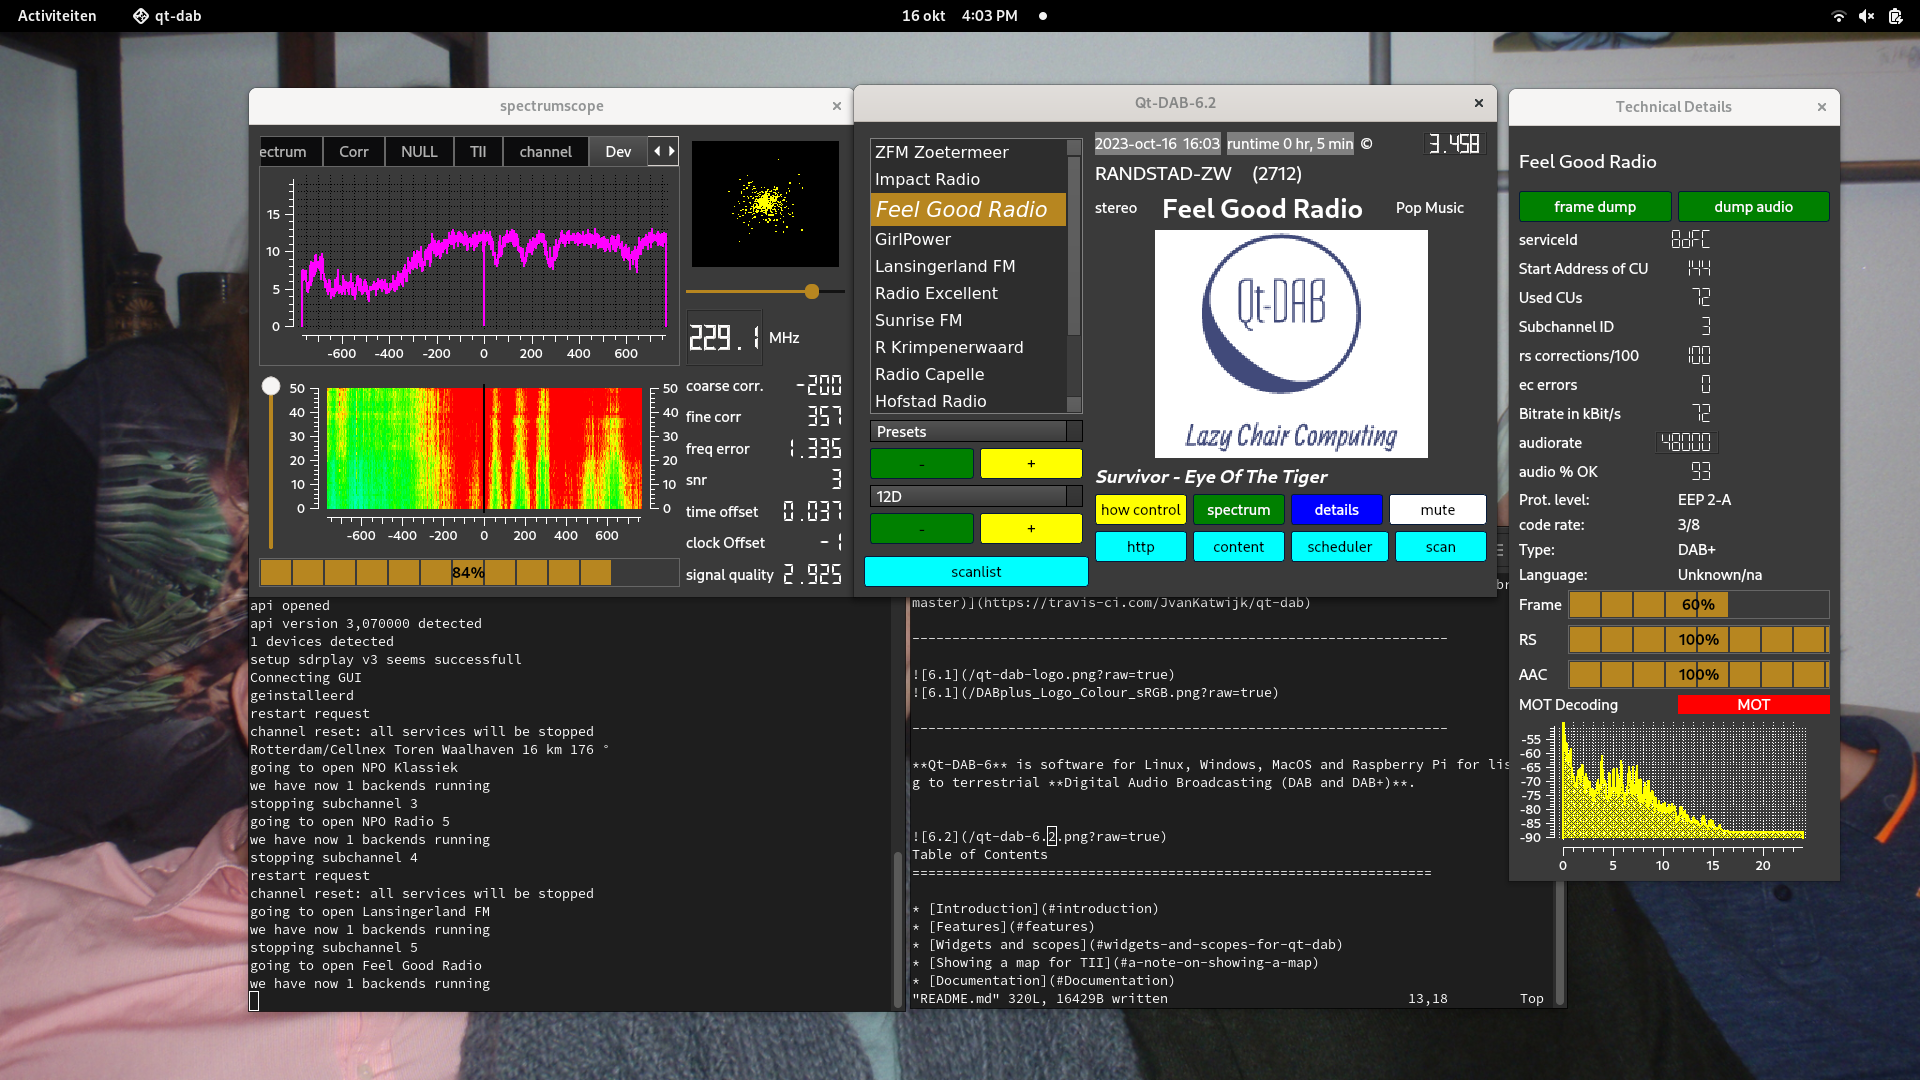
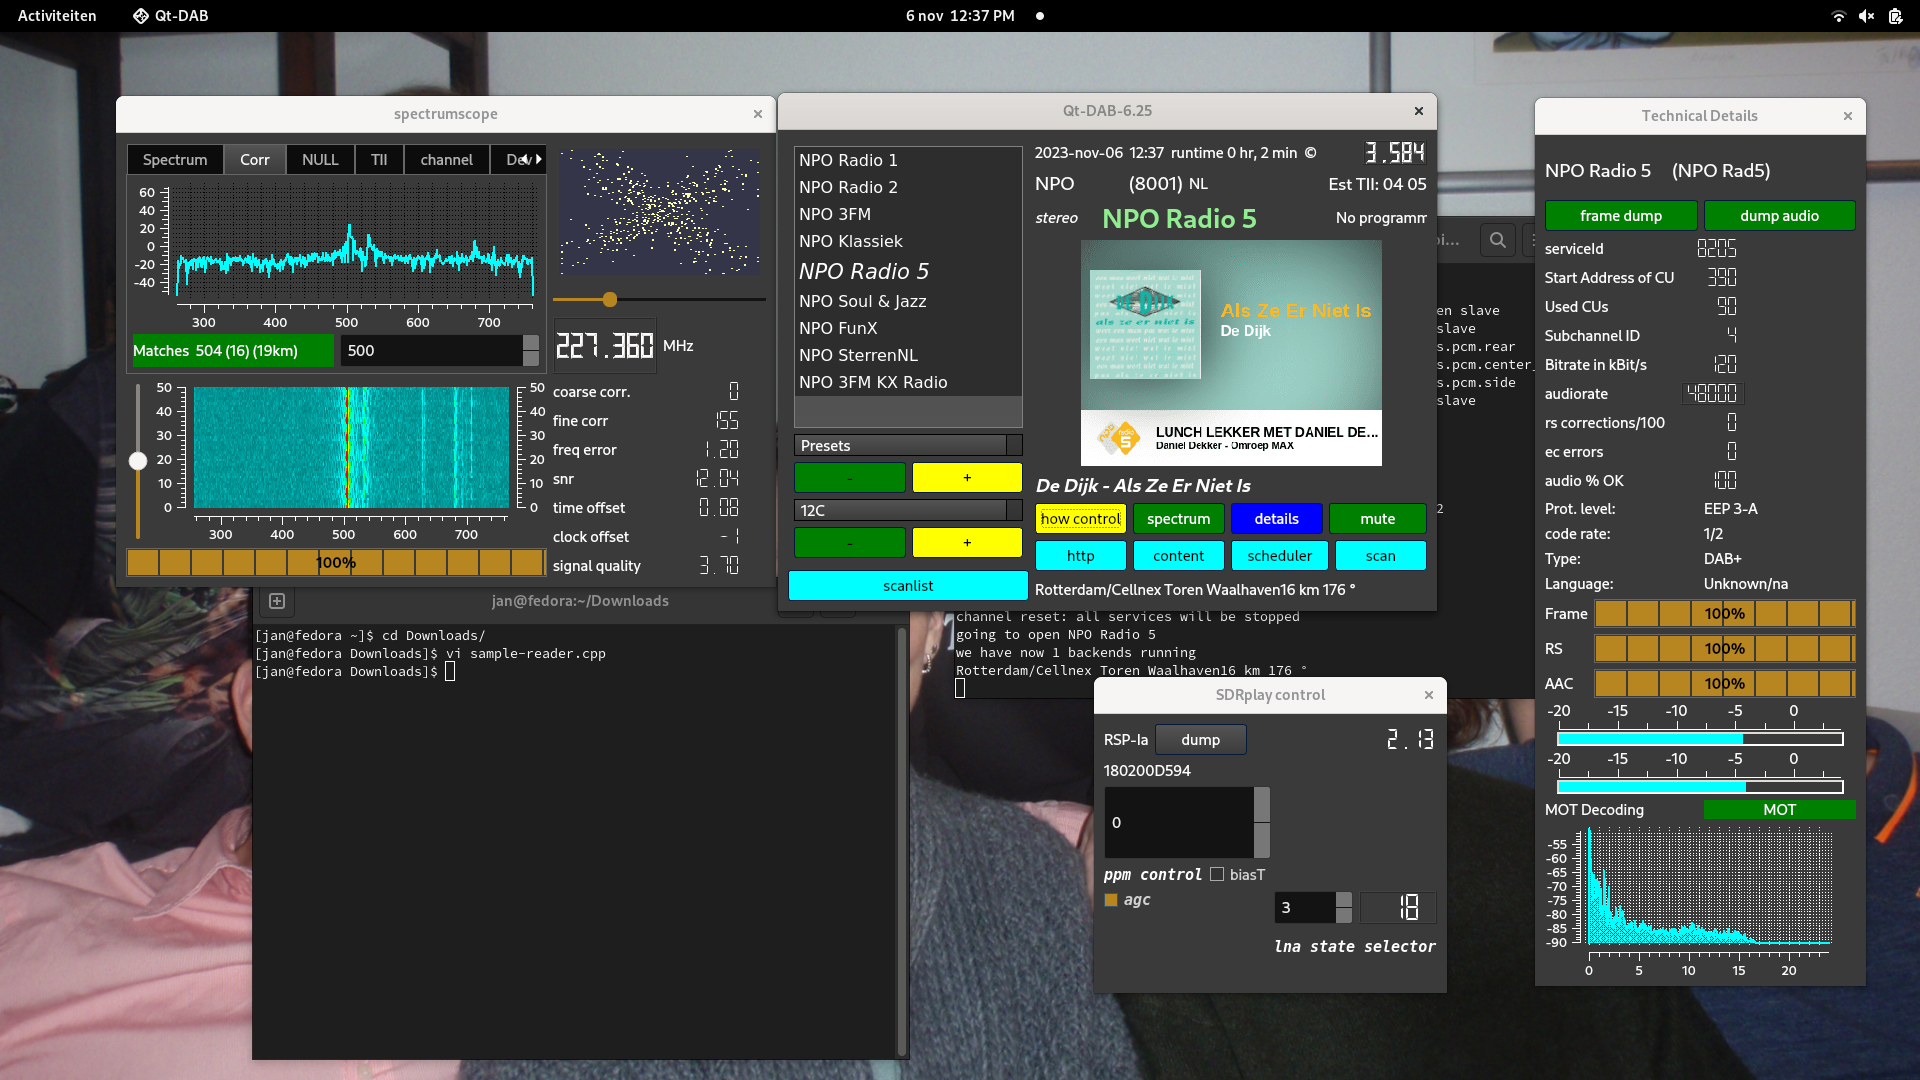
up to 6.25

diff --git a/src/ofdm/sample-reader.cpp b/src/ofdm/sample-reader.cpp
@@ -32,8 +32,14 @@ int16_t res     = 1;
 	return res;
 }
 
+static inline
+float	average (float inp, float avg, float factor) {
+	return (1.0 - factor) * avg + factor * inp;
+}
+
 static
 Complex oscillatorTable [INPUT_RATE];
+constexpr float ALPHA = 1.0f / INPUT_RATE;
 
 	sampleReader::sampleReader (RadioInterface *mr,
 	                            deviceHandler	*theRig_i,
@@ -49,7 +55,10 @@ int	i;
 	currentPhase	= 0;
 	sLevel		= 0;
 	sampleCount	= 0;
-	clipped		= false;
+	realAvg		= 0;
+	imagAvg		= 0;
+	balancing	= false;
+	repetitionCounter	= 8;
 	for (i = 0; i < INPUT_RATE; i ++)
 	   oscillatorTable [i] = Complex
 	                            (cos (2.0 * M_PI * i / INPUT_RATE),
@@ -81,18 +90,18 @@ std::vector<Complex> buffer (1);
 	return buffer [0];
 }
 
-void	sampleReader::get_samples (std::vector<Complex>  &v,
+void	sampleReader::get_samples (std::vector<Complex>  &v_out,
 	                           int index,
-	                           int32_t n,
+	                           int32_t nrSamples,
 	                           int32_t phaseOffset, bool saving) {
-Complex buffer [n];
+Complex buffer [nrSamples];
 
 	corrector	= phaseOffset;
 	if (!running. load())
 	   throw 21;
-	if (n > bufferContent) {
+	if (nrSamples > bufferContent) {
 	   bufferContent = theRig -> Samples();
-	   while ((bufferContent < n) && running. load()) {
+	   while ((bufferContent < nrSamples) && running. load()) {
 	      usleep (10);
 	      bufferContent = theRig -> Samples();
 	   }
@@ -102,36 +111,42 @@ Complex buffer [n];
 	   throw 20;
 //
 //	so here, bufferContent >= n
-	n	= theRig -> getSamples (buffer, n);
-	bufferContent -= n;
+	nrSamples	= theRig -> getSamples (buffer, nrSamples);
+	bufferContent	-= nrSamples;
 	if (dumpfilePointer. load () != nullptr) {
-	   for (int i = 0; i < n; i ++) {
-	      dumpBuffer [2 * dumpIndex    ] = real (v [i]) * dumpScale;
-	      dumpBuffer [2 * dumpIndex + 1] = imag (v [i]) * dumpScale;
-	      if (++dumpIndex >= DUMPSIZE / 2) {
-	         sf_writef_short (dumpfilePointer. load(),
+	   for (int i = 0; i < nrSamples; i ++) {
+	      dumpBuffer [2 * dumpIndex    ] = real (buffer [i]) * dumpScale;
+	      dumpBuffer [2 * dumpIndex + 1] = imag (buffer [i]) * dumpScale;
+	      if (++ dumpIndex >= DUMPSIZE / 2) {
+	         sf_writef_short (dumpfilePointer. load (),
 	                          dumpBuffer, dumpIndex);
 	         dumpIndex = 0;
 	      }
 	   }
 	}
-
 //	OK, we have samples!!
 //	first: adjust frequency. We need Hz accuracy
-	for (int i = 0; i < n; i ++) {
+	for (int i = 0; i < nrSamples; i ++) {
 	   currentPhase	-= phaseOffset;
+
+	   Complex v = buffer[i];
+	   if (balancing) {
+  	      float realPart	= real (v);
+	      float imagPart	= imag(v);
+	      average (realAvg, realPart, ALPHA);
+	      average (imagAvg, imagPart, ALPHA);
+	      v = Complex (realPart - realAvg, imagPart - imagAvg);
+	   }
 //
 //	Note that "phase" itself might be negative
 	   currentPhase	= (currentPhase + INPUT_RATE) % INPUT_RATE;
 	   if (localCounter < bufferSize)
-	      localBuffer [localCounter ++]     = v [i];
-	   float abs_lev = jan_abs_clipped (v [i], clipped, 0.95f);
-	   v  [index + i]	= buffer [i] * oscillatorTable [currentPhase];
-	   sLevel	= 0.00001 * jan_abs (v [i]) + (1 - 0.00001) * sLevel;
+	      localBuffer [localCounter ++]     = buffer [i];
+	   v_out  [index + i]	= buffer [i] * oscillatorTable [currentPhase];
+	   sLevel	= 0.00001 * jan_abs (v_out [i]) + (1 - 0.00001) * sLevel;
 	}
-#define	N 5
-	sampleCount	+= n;
-	if (sampleCount > INPUT_RATE / N) {
+	sampleCount	+= nrSamples;
+	if (sampleCount > INPUT_RATE / repetitionCounter) {
 	   show_corrector	(corrector);
 	   sampleCount = 0;
 	   if ((spectrumBuffer != nullptr) && saving) {
@@ -151,9 +166,9 @@ void	sampleReader::stop_dumping() {
 	dumpfilePointer. store (nullptr);
 }
 
-bool	sampleReader::check_clipped	() {
-bool res	= clipped;
-	clipped	= false;
-	return res;
+void	sampleReader::set_dcRemoval	(bool b) {
+	balancing	= b;
+	realAvg		= 0;
+	imagAvg		= 0;
 }
 

diff --git a/qt-dab-s6/radio.cpp b/qt-dab-s6/radio.cpp
@@ -4810,6 +4810,9 @@ void	RadioInterface::connect_configWidget () {
 
 	connect (configWidget. tii_detectorMode, SIGNAL (stateChanged (int)),
 	         this, SLOT (handle_tii_detectorMode (int)));
+
+	connect (configWidget. dcRemovalSelector, SIGNAL (stateChanged ()),
+	         this, SLOT (handle_dcRemovalSelector (int)));
 }
 
 void	RadioInterface::disconnect_configWidget () {
@@ -4938,7 +4941,8 @@ void	RadioInterface::disconnect_configWidget () {
 	         this, SLOT (handle_eti_activeSelector (int)));
 	disconnect (configWidget. tii_detectorMode, SIGNAL (stateChanged (int)),
 	         this, SLOT (handle_tii_detectorMode (int)));
-
+	disconnect (configWidget. dcRemovalSelector, SIGNAL (stateChanged (int)),
+	         this, SLOT (handle_dcRemovalSelector (int)));
 }
 
 void	RadioInterface::handle_fontSelect () {
@@ -4985,3 +4989,10 @@ void	RadioInterface::handle_iqSelector () {
 void	RadioInterface::showPeakLevel (float iPeakLeft, float iPeakRight) {
 	techWindow_p	-> showPeakLevel (iPeakLeft, iPeakRight);
 }
+
+void	RadioInterface::handle_dcRemovalSelector (int s) {
+	(void)s;
+	if (my_ofdmHandler != nullptr)
+	   my_ofdmHandler -> handle_dcRemovalSelector (configWidget. dcRemovalSelector -> isChecked ());
+}
+

diff --git a/includes/ofdm/sample-reader.h b/includes/ofdm/sample-reader.h
@@ -48,7 +48,7 @@ public:
 	                         	deviceHandler *theRig,
 	                         	RingBuffer<Complex> *spectrumBuffer = nullptr);
 
-	      	~sampleReader();
+	      	~sampleReader		();
 	      void	setRunning	(bool b);
 	      float	get_sLevel	();
 	      Complex	get_sample	(float);
@@ -57,7 +57,7 @@ public:
 	                                 int32_t n, int32_t phase, bool saving);
 	      void	start_dumping	(SNDFILE *);
 	      void	stop_dumping();
-	      bool	check_clipped	();
+	      void	set_dcRemoval	(bool);
 private:
 	      RadioInterface	*myRadioInterface;
 	      deviceHandler	*theRig;
@@ -76,7 +76,11 @@ private:
 	      int16_t		dumpScale;
 	      int16_t		dumpBuffer [DUMPSIZE];
 	      std::atomic<SNDFILE *>	dumpfilePointer;
-	      bool		clipped;
+	      int		repetitionCounter;
+
+	      bool		balancing;
+	      float		realAvg;
+	      float		imagAvg;
 signals:
 	      void		show_spectrum (int);
 	      void		show_corrector (int);

diff --git a/src/ofdm/ofdm-decoder.cpp b/src/ofdm/ofdm-decoder.cpp
@@ -65,6 +65,7 @@
 	this	-> nrBlocks		= params. get_L		();
 	this	-> carriers		= params. get_carriers	();
 
+	repetitionCounter		= 8;
 	this	-> T_g			= T_s - T_u;
 	phaseReference			.resize (T_u);
 	offsetVector. resize (T_u);
@@ -219,7 +220,7 @@ Complex fft_buffer [T_u];
 //	From time to time we show the constellation of symbol 2.
 	
 	if (blkno == 2) {
-	   if (++cnt > 8) {
+	   if (++cnt > repetitionCounter) {
 	      max /= carriers;
 	      Complex displayVector [carriers];
 	      if (iqSelector == SHOW_RAW) {

diff --git a/src/support/converter_48000.cpp b/src/support/converter_48000.cpp
@@ -33,7 +33,8 @@
 	                                outputBuffer (outB) {
 	this	-> filePointer		= nullptr;
 	this    -> peakLevelCurSampleCnt        = 0;
-        this    -> peakLevelSampleMax   = 48000 / 8; 
+	repetitionCounter		= 8;
+        this    -> peakLevelSampleMax   = 48000 / repetitionCounter; 
         this    -> absPeakLeft          = 0.0f;
         this    -> absPeakRight         = 0.0f;
 	connect (this, SIGNAL (showPeakLevel (float, float)),

diff --git a/ofdm-handler.h b/ofdm-handler.h
@@ -106,6 +106,7 @@ public:
 	                                         RingBuffer<uint8_t> *, int);
 	void		set_tiiDetectorMode	(bool);
 	void		handle_iqSelector	();
+	void		handle_dcRemovalSelector	(bool);
 private:
 	RadioInterface		*radioInterface_p;
 	processParams		*p;

diff --git a/includes/ofdm/ofdm-decoder.h b/includes/ofdm/ofdm-decoder.h
@@ -78,6 +78,8 @@ private:
 	std::vector<float>	offsetVector;
 	phaseTable	*phasetable;
 	int		iqSelector;
+
+	int		repetitionCounter;
 signals:
 	void		showIQ		(int);
 	void		show_quality	(float, float, float);

diff --git a/includes/support/converter_48000.h b/includes/support/converter_48000.h
@@ -66,6 +66,8 @@ private:
         int32_t		peakLevelSampleMax;
         float		absPeakLeft;
         float		absPeakRight;
+
+	int		repetitionCounter;
 signals:
 	void		showPeakLevel		(float, float);
 };

diff --git a/ofdm-handler.cpp b/ofdm-handler.cpp
@@ -661,3 +661,6 @@ void	ofdmHandler::handle_iqSelector	() {
 	theOfdmDecoder. handle_iqSelector ();
 }
 
+void	ofdmHandler::handle_dcRemovalSelector (bool b) {
+	theReader. set_dcRemoval (b);
+}

diff --git a/qt-dab-s6/radio.h b/qt-dab-s6/radio.h
@@ -531,4 +531,5 @@ private slots:
 	void			handle_skinSelector		();
 	void			handle_loadTable		();
 	void			handle_fontSelect		();
+	void			handle_dcRemovalSelector	(int);
 };

diff --git a/README.md b/README.md
@@ -9,9 +9,12 @@
 
 **Qt-DAB-6** is software for Linux, Windows, MacOS and Raspberry Pi for listening to terrestrial **Digital Audio Broadcasting (DAB and DAB+)**.
 
-The current version is 6.2, the versions 5.4 and 4.7 are still being
+The current version is 6.25, the versions 5.4 and 4.7 are still being
 accessible and maintained.The releases section provides a windows installer
 and an AppImage (Linux x64) for all three versions.
+
+The visual difference between 6.25 and 6.2 is the addition of "strength"
+meters for the audio to the technical widget. 
 
 ![6.2](/qt-dab-6.2.png?raw=true)
 
